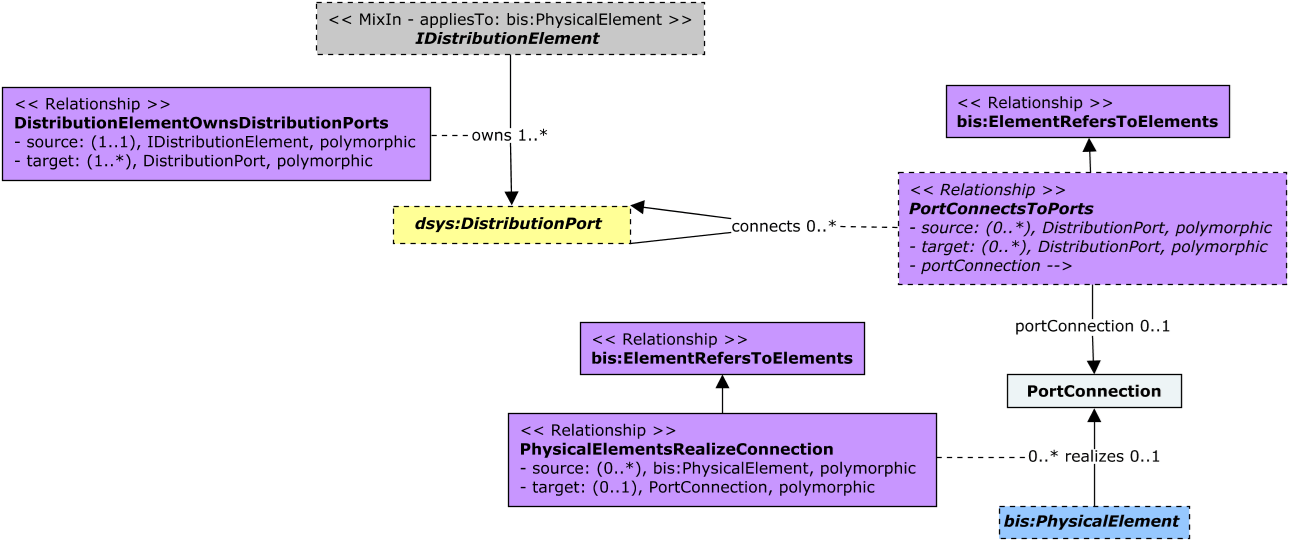
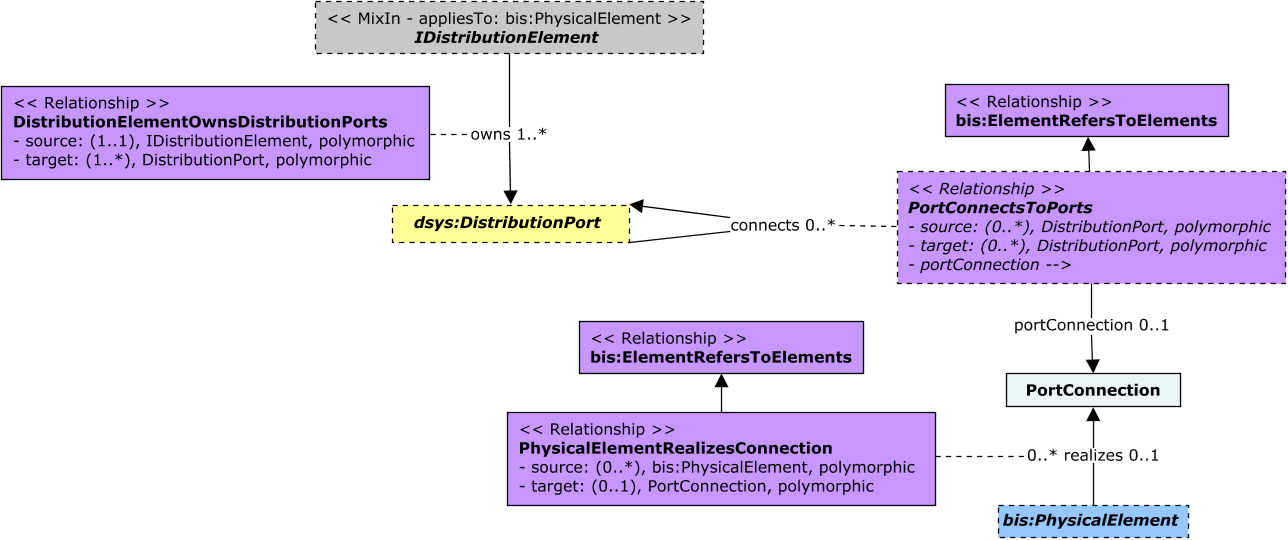
Address relationship name for consistency.

diff --git a/Domains/1-Common/DistributionSystems/DistributionSystems.remarks.md b/Domains/1-Common/DistributionSystems/DistributionSystems.remarks.md
@@ -93,9 +93,9 @@ BIS domains extending the rules and patterns in the DistributionSystems schema a
 
 Equivalent to [IfcRelConnectsPorts](https://standards.buildingsmart.org/IFC/RELEASE/IFC4_3/HTML/lexical/IfcRelConnectsPorts.htm).
 
-### PhysicalElementsRealizeConnection
+### PhysicalElementRealizesConnection
 
-When the Connection between DistributionPorts needs to be objectified, a `PortConnection` instance could be introduced, referenced by the `PortConnectsToPort` relationship via its _PortConnection_ navigation property. The `PhysicalElementsRealizeConnection` relationship can then be used to associate Physical Elements with such `PortConnection` instance.
+When the Connection between DistributionPorts needs to be objectified, a `PortConnection` instance could be introduced, referenced by the `PortConnectsToPort` relationship via its _PortConnection_ navigation property. The `PhysicalElementRealizesConnection` relationship can then be used to associate Physical Elements with such `PortConnection` instance.
 
 Note that Physical Elements realizing a Connection are not directly enabling the flow of matter in a DistributionSystem. Thus, they are typically not `IDistributionElement`s themselves. 
 
